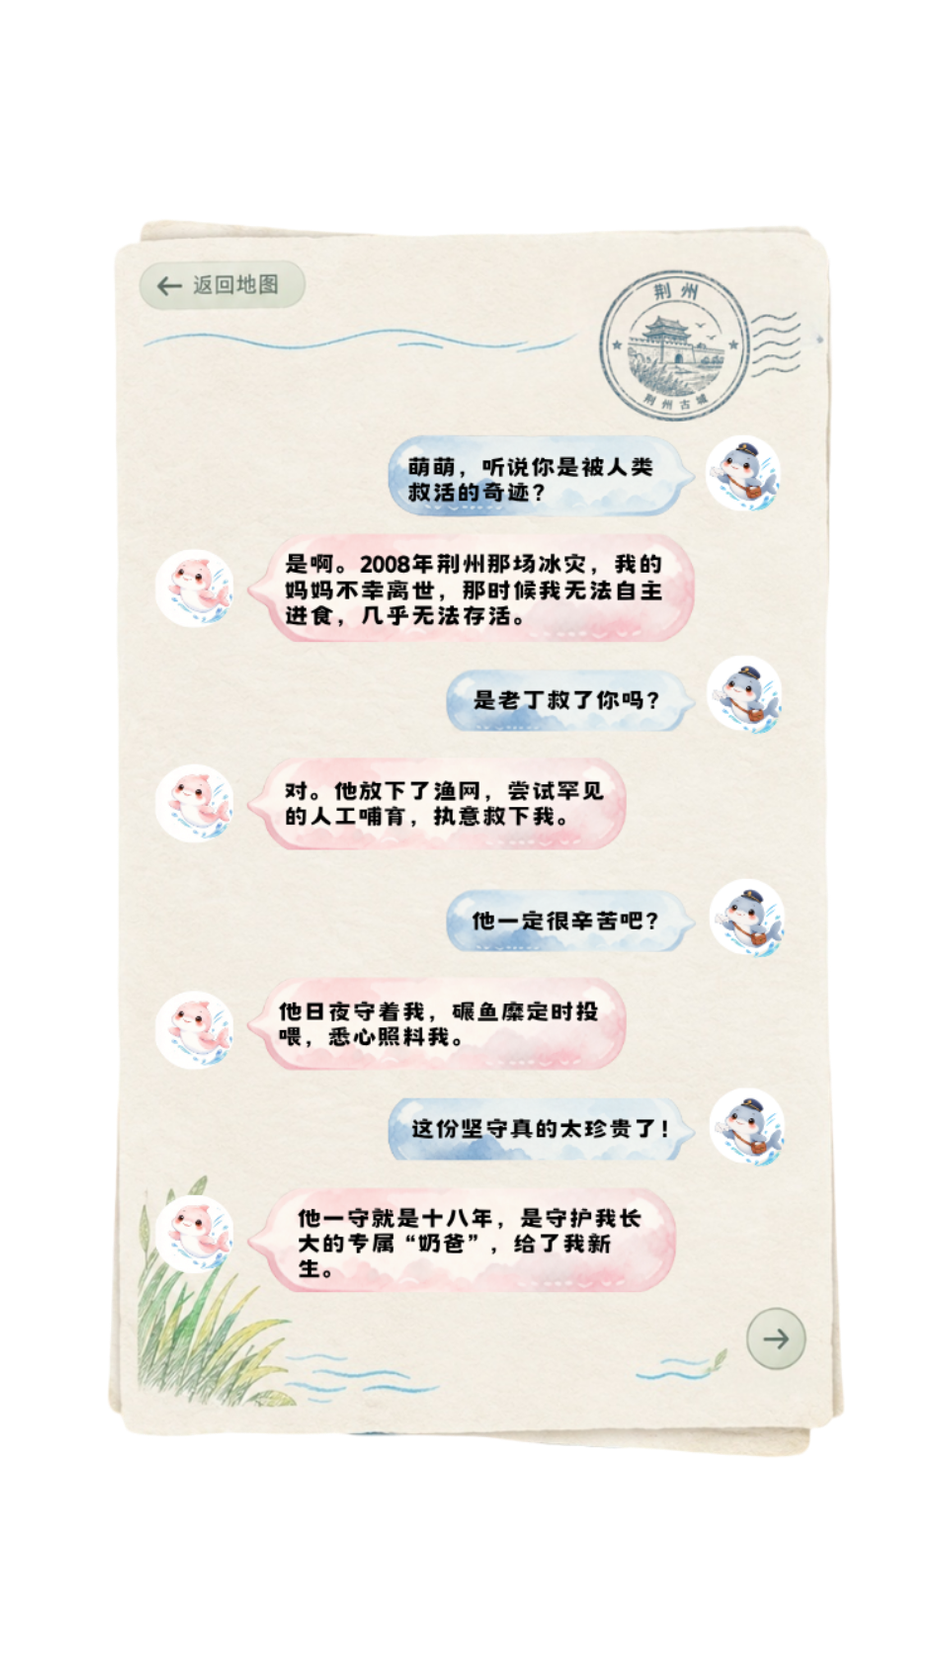
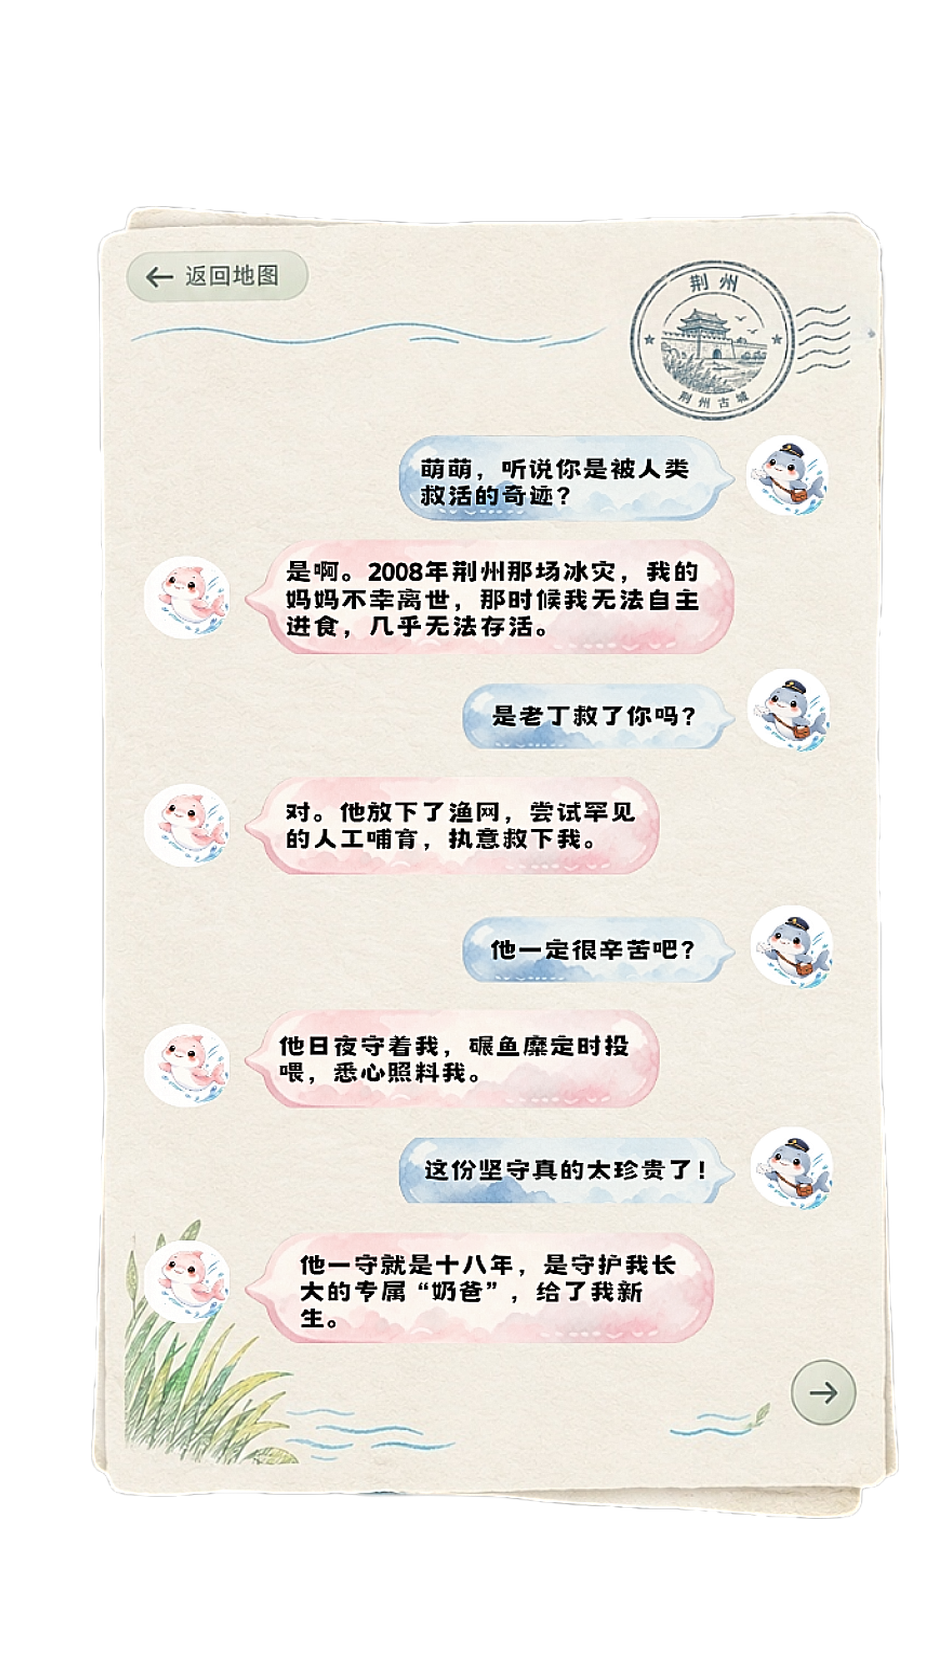
Refresh Jingzhou letter and extend music controls

Changed region(s): [[0.0925, 0.1244, 0.9554, 0.933], [0.1541, 0.4354, 0.2465, 0.5287]]

diff --git a/river/assets/audio.js b/river/assets/audio.js
@@ -1,7 +1,7 @@
 /* MP3 playback lives in the parent page so changing to the river view
    preserves the departure gesture and the long swimming track. */
 (() => {
-  const names=['unlock','delivery','correct','departure','mailbox','paper','page','back','setSwim','setMasterVolume','setBgmVolume','startBgm','setBgmEnabled','setBgmDucked','requestBgmState'];
+  const names=['unlock','delivery','correct','departure','mailbox','paper','page','back','setSwim','setMasterVolume','setBgmVolume','startBgm','setBgmEnabled','setBgmDucked','setVideoDucked','requestBgmState'];
   if(parent!==window&&new URLSearchParams(location.search).has('embedded')){
     window.H5Audio=Object.fromEntries(names.map(name=>[name,(...args)=>parent.postMessage({type:'porpoise-audio',name,args},'*')]));
     ['pointerdown','touchend','keydown'].forEach(type=>addEventListener(type,()=>window.H5Audio.unlock(),{passive:true}));
@@ -11,7 +11,7 @@
   let ctx,master,sfx,bgm,noise,deliveryTrack,correctTrack,departureTrack,mailboxTrack,swimTrack,bgmTrack;
   let masterVolume=.85,bgmVolume=.09,speed=0,active=false,underwater=false,lastUpdate=0;
   let swimLevel=0,lastTick=performance.now(),priming=false,primed=false,departing=false;
-  let bgmEnabled=true,bgmIntent=false,bgmDucked=false,bgmLevel=0,bgmPulseUntil=0;
+  let bgmEnabled=true,bgmIntent=false,bgmDucked=false,videoDucked=false,bgmLevel=0,bgmPulseUntil=0;
   try { bgmEnabled=localStorage.getItem('porpoise-bgm-enabled')!=='false'; } catch {}
   const cooldown=new Map();
   function track(filename,loop,initialLevel,bus=sfx){
@@ -77,6 +77,7 @@
     publishBgmState();
   }
   function setBgmDucked(value){bgmDucked=Boolean(value);}
+  function setVideoDucked(value){videoDucked=Boolean(value);}
   function start(item){
     if(item.pending||!item.media.paused||performance.now()<item.retryAfter)return;
     item.pending=true;
@@ -154,7 +155,7 @@
     const duration=bgmTrack.media.duration;
     const remaining=Number.isFinite(duration)?duration-bgmTrack.media.currentTime:Infinity;
     const loopFade=Math.max(0,Math.min(1,remaining/.8));
-    const bgmTarget=musicWanted?(bgmDucked?.4:1)*(moving?.7:1)*(now<bgmPulseUntil?.65:1)*loopFade:0;
+    const bgmTarget=musicWanted?(bgmDucked?.4:1)*(videoDucked?.24:1)*(moving?.7:1)*(now<bgmPulseUntil?.65:1)*loopFade:0;
     bgmLevel+=(bgmTarget-bgmLevel)*(1-Math.exp(-dt/(bgmTarget>bgmLevel?450:180)));
     if(bgmLevel<.002&&bgmTarget===0)bgmLevel=0;
     level(bgmTrack,bgmLevel);
@@ -169,11 +170,11 @@
     ctx.suspend().catch(()=>{});
   }
   const api={
-    unlock,setSwim,startBgm,setBgmEnabled,setBgmDucked,requestBgmState:publishBgmState,
+    unlock,setSwim,startBgm,setBgmEnabled,setBgmDucked,setVideoDucked,requestBgmState:publishBgmState,
     setMasterVolume(value){masterVolume=Math.max(0,Math.min(1,value));if(master){master.gain.setTargetAtTime(masterVolume,ctx.currentTime,.1);level(swimTrack,swimLevel);level(bgmTrack,bgmLevel);level(deliveryTrack,.46);level(correctTrack,.52);level(departureTrack,.58);level(mailboxTrack,.48);}},
     setBgmVolume(value){bgmVolume=Math.max(0,Math.min(1,value));if(bgm){bgm.gain.setTargetAtTime(bgmVolume,ctx.currentTime,.1);level(bgmTrack,bgmLevel);}},
     getBgmInput(){ensure();return {context:ctx,input:bgm};},
-    getState(){return {state:ctx?.state||'uninitialized',active,speed,underwater,swimPlaying:!!swimTrack&&!swimTrack.media.paused,swimVolume:swimLevel,swimTime:swimTrack?.media.currentTime||0,swimDuration:swimTrack?.media.duration||0,bgmEnabled,bgmDucked,bgmPlaying:!!bgmTrack&&!bgmTrack.media.paused,bgmTime:bgmTrack?.media.currentTime||0,bgmDuration:bgmTrack?.media.duration||0,bgmLevel,bgmUrl:bgmTrack?.media.src,bgmError:bgmTrack?.error,deliveryUrl:deliveryTrack?.media.src,correctUrl:correctTrack?.media.src,departurePlaying:!!departureTrack&&!departureTrack.media.paused,departureDuration:departureTrack?.media.duration||0,departureUrl:departureTrack?.media.src,swimUrl:swimTrack?.media.src,swimError:swimTrack?.error};}
+    getState(){return {state:ctx?.state||'uninitialized',active,speed,underwater,swimPlaying:!!swimTrack&&!swimTrack.media.paused,swimVolume:swimLevel,swimTime:swimTrack?.media.currentTime||0,swimDuration:swimTrack?.media.duration||0,bgmEnabled,bgmDucked,videoDucked,bgmPlaying:!!bgmTrack&&!bgmTrack.media.paused,bgmTime:bgmTrack?.media.currentTime||0,bgmDuration:bgmTrack?.media.duration||0,bgmLevel,bgmUrl:bgmTrack?.media.src,bgmError:bgmTrack?.error,deliveryUrl:deliveryTrack?.media.src,correctUrl:correctTrack?.media.src,departurePlaying:!!departureTrack&&!departureTrack.media.paused,departureDuration:departureTrack?.media.duration||0,departureUrl:departureTrack?.media.src,swimUrl:swimTrack?.media.src,swimError:swimTrack?.error};}
   };
   ['delivery','correct','departure','mailbox','paper','page','back'].forEach(name=>api[name]=()=>play(name));
   window.H5Audio=api;

diff --git a/river/assets/music-control.js b/river/assets/music-control.js
@@ -2,14 +2,25 @@
   const button=document.createElement('button');
   button.className='music-toggle';
   button.type='button';
-  button.innerHTML='<img src="assets/music-icon.png" alt="">';
+  const assetBase=new URL('./',document.currentScript.src);
+  button.innerHTML='<img alt="">';
   const icon=button.querySelector('img');
+  const grayIcon=new URL('music-icon.png',assetBase).href;
+  const greenIcon=new URL('music-icon-playing.png',assetBase).href;
   document.body.appendChild(button);
 
   const style=document.createElement('style');
   style.textContent=`
-    .music-toggle{position:fixed;z-index:10;top:calc(env(safe-area-inset-top,0px) + 12px);right:max(12px,calc((100vw - 640px)/2 + 12px));width:52px;height:52px;border:0;padding:0;background:transparent;cursor:pointer;touch-action:manipulation;-webkit-tap-highlight-color:transparent}
+    .music-toggle{position:fixed;z-index:60;top:calc(env(safe-area-inset-top,0px) + 12px);right:max(12px,calc((100vw - 640px)/2 + 12px));width:52px;height:52px;border:0;padding:0;background:rgba(255,255,255,.18);border-radius:50%;cursor:pointer;touch-action:manipulation;-webkit-tap-highlight-color:transparent;transition:top .25s ease,right .25s ease,background .25s ease,opacity .25s ease}
     .music-toggle img{display:block;width:100%;height:100%;object-fit:contain;filter:drop-shadow(0 2px 4px rgba(0,0,0,.28));pointer-events:none}
+    .music-toggle.is-playing img{filter:drop-shadow(0 0 7px rgba(52,174,112,.65))}
+    .music-toggle.is-playing{animation:musicBreath 2.8s ease-in-out infinite}
+    .music-toggle[data-page="loading"]{top:calc(env(safe-area-inset-top,0px) + 20px);right:max(18px,calc((100vw - 640px)/2 + 18px));background:rgba(255,255,255,.28)}
+    .music-toggle[data-page="cover"]{top:calc(env(safe-area-inset-top,0px) + 14px);right:max(18px,calc((100vw - 640px)/2 + 18px));background:rgba(255,255,255,.22)}
+    .music-toggle[data-page="quiz"]{top:calc(env(safe-area-inset-top,0px) + 18px);right:max(14px,calc((100vw - 640px)/2 + 14px));background:rgba(255,255,255,.3)}
+    .music-toggle[data-page="video"]{top:calc(env(safe-area-inset-top,0px) + 14px);right:18px;background:rgba(33,64,68,.38)}
+    .music-toggle[data-page="river"]{top:calc(env(safe-area-inset-top,0px) + 12px);right:max(12px,calc((100vw - 640px)/2 + 12px));background:rgba(255,255,255,.16)}
+    @keyframes musicBreath{0%,100%{transform:scale(1)}50%{transform:scale(1.045)}}
     .music-toggle:focus-visible{outline:2px solid #fff;outline-offset:2px;border-radius:50%}
   `;
   document.head.appendChild(style);
@@ -18,12 +29,22 @@
   function show(value,isPlaying=false){
     enabled=Boolean(value);
     playing=Boolean(isPlaying);
-    icon.src=playing&&enabled?'assets/music-icon-playing.png':'assets/music-icon.png';
+    icon.src=playing&&enabled?greenIcon:grayIcon;
+    button.classList.toggle('is-playing',playing&&enabled);
     button.setAttribute('aria-pressed',String(enabled));
     button.setAttribute('aria-label',enabled?'关闭背景音乐':'开启背景音乐');
     button.title=button.getAttribute('aria-label');
   }
   show(true);
+  function updatePage(){
+    const riverPage=document.querySelector('.stage');
+    if(riverPage){button.dataset.page='river';return;}
+    if(document.getElementById('letterVideo')){button.dataset.page='video';return;}
+    const visible=id=>{const el=document.getElementById(id);return el&&!el.classList.contains('hidden')&&getComputedStyle(el).opacity!=='0';};
+    button.dataset.page=visible('quizPage')?'quiz':visible('coverPage')?'cover':'loading';
+  }
+  updatePage();
+  new MutationObserver(updatePage).observe(document.body,{subtree:true,attributes:true,attributeFilter:['class','style','hidden']});
   button.addEventListener('click',()=>{
     if(enabled&&!playing){window.H5Audio?.startBgm();return;}
     show(!enabled);

diff --git a/letter/index.html b/letter/index.html
@@ -221,6 +221,7 @@
 
     <iframe id="riverFrame" title="长江四景 · 江豚信使" allow="autoplay" hidden style="position:fixed;inset:0;width:100%;height:100%;border:0;z-index:50;background:#eef3f2"></iframe>
     <script src="../river/assets/audio.js"></script>
+    <script src="../river/assets/music-control.js"></script>
     <script>
         document.addEventListener('DOMContentLoaded', () => {
             const envelopeWrapper = document.getElementById('envelopeWrapper');
@@ -229,6 +230,9 @@
             
             const videoWrapper = document.getElementById('videoWrapper');
             const letterVideo = document.getElementById('letterVideo');
+            const syncVideoMusic = () => window.H5Audio?.setVideoDucked(!letterVideo.paused && !letterVideo.ended);
+            ['play','playing','pause','ended','waiting'].forEach(name => letterVideo.addEventListener(name, syncVideoMusic));
+            syncVideoMusic();
 
             function resizeCanvas() {
                 canvas.width = canvas.clientWidth;

diff --git a/index.html b/index.html
@@ -354,6 +354,7 @@
     </div>
 
     <script src="river/assets/audio.js"></script>
+    <script src="river/assets/music-control.js"></script>
     <script>
         document.addEventListener('DOMContentLoaded', () => {
             // === 阶段一逻辑：加载页动画 (4秒) ===

diff --git a/整合使用说明.md b/整合使用说明.md
@@ -21,4 +21,5 @@
 音量为保守初始值，实际听感随手机系统音量和扬声器变化。
 
 背景音乐为 `river/assets/audio/bgm.mp3`，约 3 分钟，在点击“跟我出发”时启动，进入长江画面后淡入并循环。单独打开长江页时，首次点击或按键启动音乐。右上角固定图标只控制背景音乐，关闭后再次开启会从暂停位置续播，选择会保存在当前浏览器。信纸展开时背景音乐降至原音量的约 40%，返回地图后恢复；游泳、邮箱等音效不受开关影响。切到后台时音乐暂停，回到页面后按开关状态继续。
+前置加载页、封面、问卷和视频页也使用同一首背景音乐。用户首次触摸页面后开始播放，页面之间连续续播；音乐图标会根据页面构图在右上角做小幅位置适配，播放时统一显示绿色效果，关闭后恢复灰色。视频播放期间背景音乐自动降至较低音量，让视频特效声保持清楚，视频暂停或结束后恢复。
 初始背景音乐音量为独立 BGM 通道的 9%；江豚游动时再轻降至该音量的 70%，以保留游泳音效的清晰度。可在 `river/assets/audio.js` 中通过 `setBgmVolume()` 调整，`setMasterVolume()` 控制整体声音。手机实际听感还受系统音量和扬声器影响。
